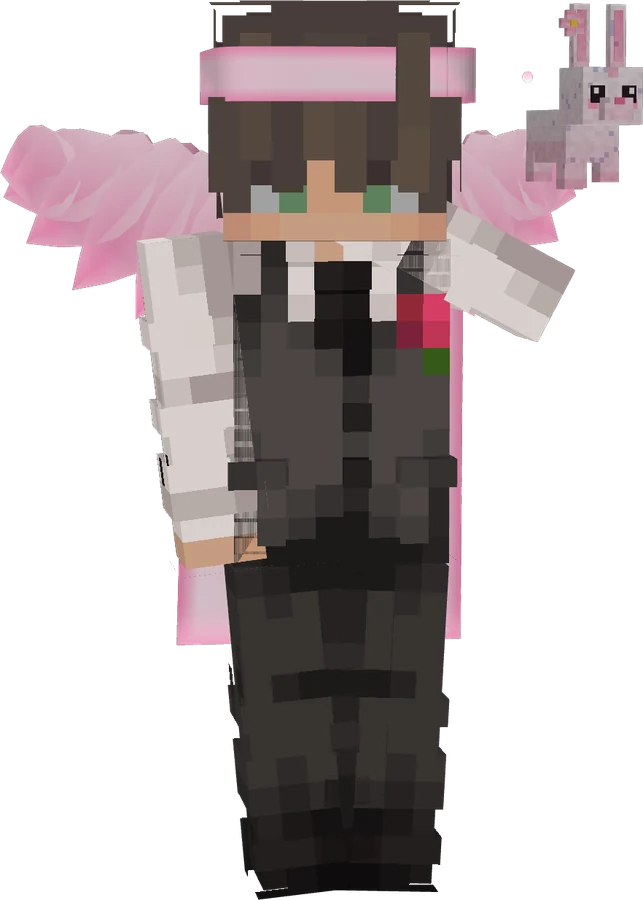
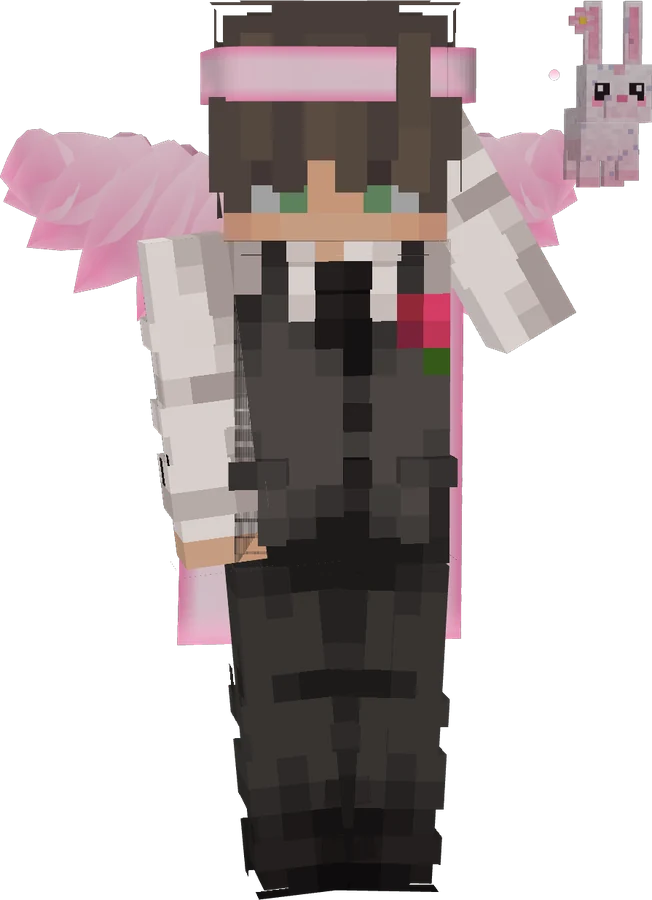
Home: smaller posed skins, arms raised higher
Claude-Session: https://claude.ai/code/session_01AkdELL3XXDNhL6QYx5Eq6p

diff --git a/site/changelogs.html b/site/changelogs.html
@@ -1,3 +1,3 @@
-<!doctype html><html lang="en"><head><meta charset="utf-8"><meta name="viewport" content="width=device-width,initial-scale=1"><title>Changelogs - YA CLIENT</title><meta name="description" content="Every YA CLIENT update with all the details: new features, improvements and fixes."><meta property="og:title" content="Changelogs - YA CLIENT"><meta property="og:description" content="Every YA CLIENT update with all the details: new features, improvements and fixes."><meta property="og:image" content="/news-update.png"><link rel="icon" href="/logo.png"><link rel="stylesheet" href="/ya.css?v=14"></head><body class=""><nav class="top"><div class="wrap"><a class="brand" href="/" aria-label="YA CLIENT"><img src="/logo.png" alt="YA CLIENT"></a><div class="nl"><a href="/" class=" ">Home</a><a href="/changelogs" class="on ">Changelogs</a><a href="/store" class=" ">Store</a><a href="/plus" class=" plusl">YA Plus</a><a href="#" data-dc>Discord</a><a class="cta keep" href="#" data-dl>Download</a></div></div></nav>
+<!doctype html><html lang="en"><head><meta charset="utf-8"><meta name="viewport" content="width=device-width,initial-scale=1"><title>Changelogs - YA CLIENT</title><meta name="description" content="Every YA CLIENT update with all the details: new features, improvements and fixes."><meta property="og:title" content="Changelogs - YA CLIENT"><meta property="og:description" content="Every YA CLIENT update with all the details: new features, improvements and fixes."><meta property="og:image" content="/news-update.png"><link rel="icon" href="/logo.png"><link rel="stylesheet" href="/ya.css?v=15"></head><body class=""><nav class="top"><div class="wrap"><a class="brand" href="/" aria-label="YA CLIENT"><img src="/logo.png" alt="YA CLIENT"></a><div class="nl"><a href="/" class=" ">Home</a><a href="/changelogs" class="on ">Changelogs</a><a href="/store" class=" ">Store</a><a href="/plus" class=" plusl">YA Plus</a><a href="#" data-dc>Discord</a><a class="cta keep" href="#" data-dl>Download</a></div></div></nav>
 <div class="page-h"><div class="wrap"><span class="eyebrow">Changelogs</span><h1 class="plain">What is new</h1><p class="sub">Every update, with all the details.</p></div></div>
 <section style="padding:20px 0 60px"><div class="wrap"><div class="tl"><article class="rel" id="v1.2"><div class="meta"><h2>Update 1.2</h2><span class="chip">17 Nov 2026</span></div><p class="lead" style="margin-top:0">Friends and a new look</p><img class="banner" src="/news-update.png" alt=""><h4><span class="chip new">NEW</span></h4><div class="items"><div class="it"><b>Friends</b><span>Add friends by Minecraft name from the launcher or in game, accept requests and see who is online. Online friends sit at the top of the list with a green dot.</span></div><div class="it"><b>Online notification</b><span>A card appears in the top right corner with the YA logo, the name and a green dot when a friend comes online.</span></div><div class="it"><b>Animated main menu</b><span>The title screen now has a full quality photo background with slow motion, water shimmer and a pulsing sun glow.</span></div><div class="it"><b>New launcher design</b><span>Light grey look, 3D skin of the logged in player, YA Plus welcome and setup, and a red theme for YA Plus members.</span></div><div class="it"><b>Automatic Java</b><span>The launcher downloads Java 8, 17 or 21 by itself. Nothing to install.</span></div><div class="it"><b>New store and YA Plus page</b><span>Real 3D cosmetics on a mannequin, prices and a dedicated YA Plus page.</span></div></div><h4><span class="chip imp">IMPROVED</span></h4><div class="items"><div class="it"><b>Cleaner menus</b><span>Smaller buttons, icons only in the dock, centered hub with a friends button.</span></div><div class="it"><b>Tab list</b><span>The YA logo now sits in front of the name of every YA CLIENT player.</span></div></div><h4><span class="chip fix">FIXED</span></h4><div class="items"><div class="it"><b>Main menu background</b><span>The panorama is no longer tilted.</span></div><div class="it"><b>Updater</b><span>More reliable downloads during releases.</span></div></div></article><article class="rel" id="v1.1"><div class="meta"><h2>Update 1.1</h2><span class="chip">17 Nov 2026</span></div><p class="lead" style="margin-top:0">14 new mods, dragon wings and many fixes</p><img class="banner" src="/news-welcome.png" alt=""><h4><span class="chip new">NEW</span></h4><div class="items"><div class="it"><b>14 new mods</b><span>Combo, Bow Charge, Block Info, No Hurt Cam, Background FPS, Low Health, Target HUD, Item Counter, Inventory HUD, Nearby Players, Hit Color, AutoGG, Minimap and 1.7 Animations.</span></div><div class="it"><b>Dragon wings</b><span>Black 3D dragon wings with a smooth, continuous flap animation, plus a fully black cape with the white infinity logo.</span></div><div class="it"><b>Client logo in the tab list</b><span>Players using YA CLIENT show the real logo next to their name.</span></div><div class="it"><b>News and changelog</b><span>Every update is listed in the client with all details.</span></div></div><h4><span class="chip imp">IMPROVED</span></h4><div class="items"><div class="it"><b>Smaller, cleaner menus</b><span>Main menu, hub and mod menus are more compact and scale properly on any screen.</span></div><div class="it"><b>Cosmetics cards</b><span>Tags no longer cover the preview and wings stay inside the card.</span></div><div class="it"><b>Wing animation</b><span>Wings keep flapping while you walk, jump or fall instead of resetting.</span></div><div class="it"><b>Automatic launcher updates</b><span>The launcher can update itself from GitHub releases.</span></div></div><h4><span class="chip fix">FIXED</span></h4><div class="items"><div class="it"><b>Hitboxes</b><span>Entity hitboxes are re-applied every frame so they stay on.</span></div><div class="it"><b>1.7 Animations</b><span>Sword block-hit swing and lower sword position now work.</span></div><div class="it"><b>Tab letters</b><span>Removed the placeholder letters in the tab list in favour of the logo.</span></div></div></article><article class="rel" id="v1.0"><div class="meta"><h2>Update 1.0</h2><span class="chip">Launch</span></div><p class="lead" style="margin-top:0">Welcome to YA CLIENT</p><img class="banner" src="/news-welcome.png" alt=""><h4><span class="chip new">NEW</span></h4><div class="items"><div class="it"><b>HUD editor</b><span>Drag, drop and resize every HUD element.</span></div><div class="it"><b>Cosmetics</b><span>Cape, wings, bandana and a pet with a free Beta Tester bundle.</span></div><div class="it"><b>4 languages</b><span>English, Italiano, Español and Deutsch.</span></div><div class="it"><b>Free launcher</b><span>Sign in with Microsoft, press Launch and play. It updates itself.</span></div><div class="it"><b>Right Shift menu</b><span>Open the client menu in game at any time.</span></div></div></article></div></div></section><footer><div class="wrap"><div>© YA CLIENT · Not affiliated with Mojang or Microsoft.</div><div class="fl"><a href="/changelogs">Changelogs</a><a href="/store">Store</a><a href="/plus">YA Plus</a><a href="#" data-dc>Discord</a></div></div></footer><script src="/config.js"></script><script src="/site.js"></script></body></html>

diff --git a/site/index.html b/site/index.html
@@ -1,4 +1,4 @@
-<!doctype html><html lang="en"><head><meta charset="utf-8"><meta name="viewport" content="width=device-width,initial-scale=1"><title>YA CLIENT - The modern Minecraft 1.8.9 PvP client</title><meta name="description" content="YA CLIENT: fast, clean and free Minecraft 1.8.9 PvP client. No Forge, 40+ modules, cosmetics, friends and a free launcher."><meta property="og:title" content="YA CLIENT - The modern Minecraft 1.8.9 PvP client"><meta property="og:description" content="YA CLIENT: fast, clean and free Minecraft 1.8.9 PvP client. No Forge, 40+ modules, cosmetics, friends and a free launcher."><meta property="og:image" content="/news-update.png"><link rel="icon" href="/logo.png"><link rel="stylesheet" href="/ya.css?v=14"></head><body class=""><nav class="top"><div class="wrap"><a class="brand" href="/" aria-label="YA CLIENT"><img src="/logo.png" alt="YA CLIENT"></a><div class="nl"><a href="/" class="on ">Home</a><a href="/changelogs" class=" ">Changelogs</a><a href="/store" class=" ">Store</a><a href="/plus" class=" plusl">YA Plus</a><a href="#" data-dc>Discord</a><a class="cta keep" href="#" data-dl>Download</a></div></div></nav>
+<!doctype html><html lang="en"><head><meta charset="utf-8"><meta name="viewport" content="width=device-width,initial-scale=1"><title>YA CLIENT - The modern Minecraft 1.8.9 PvP client</title><meta name="description" content="YA CLIENT: fast, clean and free Minecraft 1.8.9 PvP client. No Forge, 40+ modules, cosmetics, friends and a free launcher."><meta property="og:title" content="YA CLIENT - The modern Minecraft 1.8.9 PvP client"><meta property="og:description" content="YA CLIENT: fast, clean and free Minecraft 1.8.9 PvP client. No Forge, 40+ modules, cosmetics, friends and a free launcher."><meta property="og:image" content="/news-update.png"><link rel="icon" href="/logo.png"><link rel="stylesheet" href="/ya.css?v=15"></head><body class=""><nav class="top"><div class="wrap"><a class="brand" href="/" aria-label="YA CLIENT"><img src="/logo.png" alt="YA CLIENT"></a><div class="nl"><a href="/" class="on ">Home</a><a href="/changelogs" class=" ">Changelogs</a><a href="/store" class=" ">Store</a><a href="/plus" class=" plusl">YA Plus</a><a href="#" data-dc>Discord</a><a class="cta keep" href="#" data-dl>Download</a></div></div></nav>
 <header class="h2"><div class="wrap h2g">
 <div class="h2t"><h1>YA <b>CLIENT</b></h1>
 <p class="sub">The modern PvP client. Lightweight and clean: 40+ modules, real 3D cosmetics, no Forge needed, one installer and everything in one place.</p>

diff --git a/site/item.html b/site/item.html
@@ -1,4 +1,4 @@
-<!doctype html><html lang="en"><head><meta charset="utf-8"><meta name="viewport" content="width=device-width,initial-scale=1"><title>Cosmetic - YA CLIENT</title><meta name="description" content="YA CLIENT cosmetics store: real 3D wings, capes, bandanas and pets. Try them on before you buy."><meta property="og:title" content="Cosmetic - YA CLIENT"><meta property="og:description" content="YA CLIENT cosmetics store: real 3D wings, capes, bandanas and pets. Try them on before you buy."><meta property="og:image" content="/news-update.png"><link rel="icon" href="/logo.png"><link rel="stylesheet" href="/ya.css?v=14"><link rel="stylesheet" href="/bundle.css?v=13"></head><body class=""><nav class="top"><div class="wrap"><a class="brand" href="/" aria-label="YA CLIENT"><img src="/logo.png" alt="YA CLIENT"></a><div class="nl"><a href="/" class=" ">Home</a><a href="/changelogs" class=" ">Changelogs</a><a href="/store" class="on ">Store</a><a href="/plus" class=" plusl">YA Plus</a><a href="#" data-dc>Discord</a><a class="cta keep" href="#" data-dl>Download</a></div></div></nav>
+<!doctype html><html lang="en"><head><meta charset="utf-8"><meta name="viewport" content="width=device-width,initial-scale=1"><title>Cosmetic - YA CLIENT</title><meta name="description" content="YA CLIENT cosmetics store: real 3D wings, capes, bandanas and pets. Try them on before you buy."><meta property="og:title" content="Cosmetic - YA CLIENT"><meta property="og:description" content="YA CLIENT cosmetics store: real 3D wings, capes, bandanas and pets. Try them on before you buy."><meta property="og:image" content="/news-update.png"><link rel="icon" href="/logo.png"><link rel="stylesheet" href="/ya.css?v=15"><link rel="stylesheet" href="/bundle.css?v=13"></head><body class=""><nav class="top"><div class="wrap"><a class="brand" href="/" aria-label="YA CLIENT"><img src="/logo.png" alt="YA CLIENT"></a><div class="nl"><a href="/" class=" ">Home</a><a href="/changelogs" class=" ">Changelogs</a><a href="/store" class="on ">Store</a><a href="/plus" class=" plusl">YA Plus</a><a href="#" data-dc>Discord</a><a class="cta keep" href="#" data-dl>Download</a></div></div></nav>
 
 <section class="hero item" id="hero"><div class="hs" id="hs">
 <a class="hback" id="hback" href="/store?c=bundle"><svg viewBox="0 0 24 24" width="26" height="26" fill="none" stroke="currentColor" stroke-width="2.6" stroke-linecap="round" stroke-linejoin="round"><path d="M15 5l-7 7 7 7"/></svg><span id="hbt">Bundle</span></a><div class="hr" id="hrr">COSMETIC</div>

diff --git a/site/bundle.html b/site/bundle.html
@@ -1,4 +1,4 @@
-<!doctype html><html lang="en"><head><meta charset="utf-8"><meta name="viewport" content="width=device-width,initial-scale=1"><title>Bundle - YA CLIENT</title><meta name="description" content="YA CLIENT cosmetics store: real 3D wings, capes, bandanas and pets. Try them on before you buy."><meta property="og:title" content="Bundle - YA CLIENT"><meta property="og:description" content="YA CLIENT cosmetics store: real 3D wings, capes, bandanas and pets. Try them on before you buy."><meta property="og:image" content="/news-update.png"><link rel="icon" href="/logo.png"><link rel="stylesheet" href="/ya.css?v=14"><link rel="stylesheet" href="/bundle.css?v=15"></head><body class=""><nav class="top"><div class="wrap"><a class="brand" href="/" aria-label="YA CLIENT"><img src="/logo.png" alt="YA CLIENT"></a><div class="nl"><a href="/" class=" ">Home</a><a href="/changelogs" class=" ">Changelogs</a><a href="/store" class="on ">Store</a><a href="/plus" class=" plusl">YA Plus</a><a href="#" data-dc>Discord</a><a class="cta keep" href="#" data-dl>Download</a></div></div></nav>
+<!doctype html><html lang="en"><head><meta charset="utf-8"><meta name="viewport" content="width=device-width,initial-scale=1"><title>Bundle - YA CLIENT</title><meta name="description" content="YA CLIENT cosmetics store: real 3D wings, capes, bandanas and pets. Try them on before you buy."><meta property="og:title" content="Bundle - YA CLIENT"><meta property="og:description" content="YA CLIENT cosmetics store: real 3D wings, capes, bandanas and pets. Try them on before you buy."><meta property="og:image" content="/news-update.png"><link rel="icon" href="/logo.png"><link rel="stylesheet" href="/ya.css?v=15"><link rel="stylesheet" href="/bundle.css?v=15"></head><body class=""><nav class="top"><div class="wrap"><a class="brand" href="/" aria-label="YA CLIENT"><img src="/logo.png" alt="YA CLIENT"></a><div class="nl"><a href="/" class=" ">Home</a><a href="/changelogs" class=" ">Changelogs</a><a href="/store" class="on ">Store</a><a href="/plus" class=" plusl">YA Plus</a><a href="#" data-dc>Discord</a><a class="cta keep" href="#" data-dl>Download</a></div></div></nav>
 
 <section class="hero" id="hero"><div class="hs" id="hs">
 <a class="hback" href="/store?c=bundle"><svg viewBox="0 0 24 24" width="26" height="26" fill="none" stroke="currentColor" stroke-width="2.6" stroke-linecap="round" stroke-linejoin="round"><path d="M15 5l-7 7 7 7"/></svg>Store</a><div class="hr">COSMETICS</div>

diff --git a/site/store.html b/site/store.html
@@ -1,4 +1,4 @@
-<!doctype html><html lang="en"><head><meta charset="utf-8"><meta name="viewport" content="width=device-width,initial-scale=1"><title>Store - YA CLIENT</title><meta name="description" content="YA CLIENT cosmetics store: real 3D wings, capes, bandanas and pets. Try them on before you buy."><meta property="og:title" content="Store - YA CLIENT"><meta property="og:description" content="YA CLIENT cosmetics store: real 3D wings, capes, bandanas and pets. Try them on before you buy."><meta property="og:image" content="/news-update.png"><link rel="icon" href="/logo.png"><link rel="stylesheet" href="/ya.css?v=14"></head><body class=""><nav class="top"><div class="wrap"><a class="brand" href="/" aria-label="YA CLIENT"><img src="/logo.png" alt="YA CLIENT"></a><div class="nl"><a href="/" class=" ">Home</a><a href="/changelogs" class=" ">Changelogs</a><a href="/store" class="on ">Store</a><a href="/plus" class=" plusl">YA Plus</a><a href="#" data-dc>Discord</a><a class="cta keep" href="#" data-dl>Download</a></div></div></nav>
+<!doctype html><html lang="en"><head><meta charset="utf-8"><meta name="viewport" content="width=device-width,initial-scale=1"><title>Store - YA CLIENT</title><meta name="description" content="YA CLIENT cosmetics store: real 3D wings, capes, bandanas and pets. Try them on before you buy."><meta property="og:title" content="Store - YA CLIENT"><meta property="og:description" content="YA CLIENT cosmetics store: real 3D wings, capes, bandanas and pets. Try them on before you buy."><meta property="og:image" content="/news-update.png"><link rel="icon" href="/logo.png"><link rel="stylesheet" href="/ya.css?v=15"></head><body class=""><nav class="top"><div class="wrap"><a class="brand" href="/" aria-label="YA CLIENT"><img src="/logo.png" alt="YA CLIENT"></a><div class="nl"><a href="/" class=" ">Home</a><a href="/changelogs" class=" ">Changelogs</a><a href="/store" class="on ">Store</a><a href="/plus" class=" plusl">YA Plus</a><a href="#" data-dc>Discord</a><a class="cta keep" href="#" data-dl>Download</a></div></div></nav>
 <div class="page-h"><div class="wrap"><span class="eyebrow">Store</span><h1 class="plain">Cosmetics</h1><p class="sub">Wings, capes, bandanas and pets. Click any item to see it on its own page.</p></div></div>
 <div class="wrap">
 <div class="plusbar" id="plusbar2"></div>

diff --git a/site/ya.css b/site/ya.css
@@ -230,14 +230,14 @@ footer a:hover{color:var(--text)}
 .h2t .row{display:flex;gap:12px;flex-wrap:wrap}
 .h2t .btn.lg{padding:0 28px;height:56px;font-size:16px;border-radius:16px}
 .h2t .hint{margin-top:18px;text-align:left}
-.h2v{position:relative;padding:0 9% 50px 17%}
+.h2v{position:relative;padding:0 5% 50px 10%}
 .win{border:1px solid var(--line2);border-radius:20px;overflow:hidden;background:#0b0b0f;box-shadow:0 50px 120px rgba(0,0,0,.7),0 0 140px rgba(225,6,0,.14);transform:perspective(1600px) rotateY(-7deg) rotateX(2deg);transform-origin:70% 50%}
 .win .bar{height:32px;display:flex;gap:7px;align-items:center;padding:0 14px;background:#111115;border-bottom:1px solid var(--line)}
 .win .bar i{width:10px;height:10px;border-radius:50%;background:#2c2c33}.win .bar span{margin-left:auto;margin-right:auto;font-size:11px;font-weight:800;letter-spacing:2px;color:#6b6b75;transform:translateX(-24px)}
 .win img{display:block;width:100%;height:auto}
 .fl{position:absolute;pointer-events:none;animation:flo 6s ease-in-out infinite;filter:drop-shadow(0 18px 26px rgba(0,0,0,.55))}
-.hl{left:-6%;bottom:40px;width:27%;height:auto}
-.hr2{right:-1%;top:0;translate:0 -63%;width:27%;height:auto;animation-delay:-3s}
+.hl{left:-5%;bottom:42px;width:17%;height:auto}
+.hr2{right:-1%;top:0;translate:0 -63%;width:17%;height:auto;animation-delay:-3s}
 @keyframes flo{50%{transform:translateY(-14px)}}
 .stats2{display:grid;grid-template-columns:repeat(5,1fr);margin-top:56px;border:1px solid var(--line);border-radius:22px;background:rgba(255,255,255,.02);overflow:hidden}
 .stats2 div{padding:22px 10px;text-align:center;border-left:1px solid var(--line)}.stats2 div:first-child{border-left:0}

diff --git a/site/plus.html b/site/plus.html
@@ -1,4 +1,4 @@
-<!doctype html><html lang="en"><head><meta charset="utf-8"><meta name="viewport" content="width=device-width,initial-scale=1"><title>YA Plus - YA CLIENT</title><meta name="description" content="YA Plus: a red launcher, an animated cape with cloth motion and more perks for YA CLIENT."><meta property="og:title" content="YA Plus - YA CLIENT"><meta property="og:description" content="YA Plus: a red launcher, an animated cape with cloth motion and more perks for YA CLIENT."><meta property="og:image" content="/news-update.png"><link rel="icon" href="/logo.png"><link rel="stylesheet" href="/ya.css?v=14"><style>
+<!doctype html><html lang="en"><head><meta charset="utf-8"><meta name="viewport" content="width=device-width,initial-scale=1"><title>YA Plus - YA CLIENT</title><meta name="description" content="YA Plus: a red launcher, an animated cape with cloth motion and more perks for YA CLIENT."><meta property="og:title" content="YA Plus - YA CLIENT"><meta property="og:description" content="YA Plus: a red launcher, an animated cape with cloth motion and more perks for YA CLIENT."><meta property="og:image" content="/news-update.png"><link rel="icon" href="/logo.png"><link rel="stylesheet" href="/ya.css?v=15"><style>
 .pm-grid{display:grid;grid-template-columns:repeat(3,1fr);gap:18px}
 .pm{background:var(--s1);border:1px solid var(--line);border-radius:20px;overflow:hidden;position:relative}
 .pm .pv{aspect-ratio:16/10;background:#0b0b0e;border-bottom:1px solid var(--line);position:relative;overflow:hidden}
